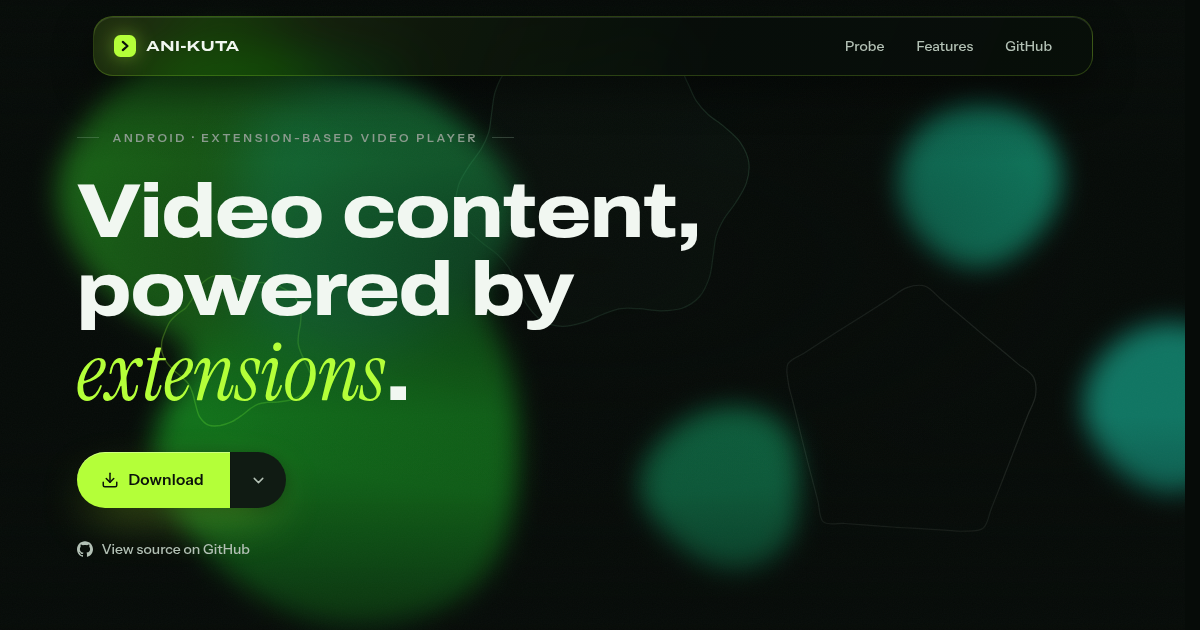
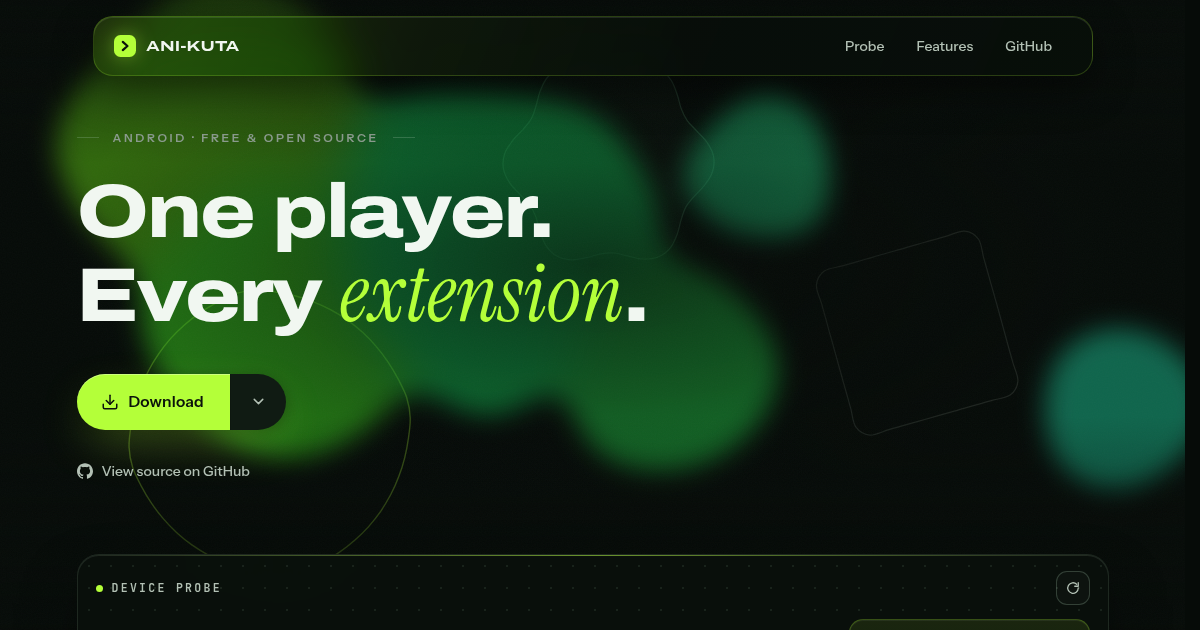
copy: v6 — headline 'One player. Every extension.', trust eyebrow, natural demo/modal copy, sentence-cased notices, cleaner meta

diff --git a/index.html b/index.html
@@ -4,11 +4,11 @@
   <meta charset="utf-8">
   <meta name="viewport" content="width=device-width, initial-scale=1">
   <title>ANI-KUTA — Download for Android</title>
-  <meta name="description" content="ANI-KUTA — an extension-based video content app for Android. Probe your device, pick arm64-v8a, armeabi-v7a or universal, and grab the APK.">
+  <meta name="description" content="ANI-KUTA — a free, open source extension-based video player for Android. Probe your device, pick arm64-v8a, armeabi-v7a or universal, and grab the APK.">
   <meta name="theme-color" content="#060B08">
   <link rel="icon" type="image/svg+xml" href="favicon.svg">
   <meta property="og:title" content="ANI-KUTA — Download for Android">
-  <meta property="og:description" content="ANI-KUTA — an extension-based video content app for Android. Probe your device, pick the right build, grab the APK.">
+  <meta property="og:description" content="ANI-KUTA — a free, open source extension-based video player for Android. Probe your device, pick the right build, grab the APK.">
   <meta property="og:url" content="https://confused-creature-180.github.io/ANI-KUTA/">
   <meta property="og:image" content="https://confused-creature-180.github.io/ANI-KUTA/og.png">
   <meta property="og:image:width" content="1200">
@@ -1270,9 +1270,9 @@
       <section class="ak-hero">
         <div class="ak-container">
           <div class="ak-hero-inner">
-            <p class="ak-eyebrow ak-rise" style="--d:0ms">Android · Extension-based video player</p>
+            <p class="ak-eyebrow ak-rise" style="--d:0ms">Android · Free &amp; open source</p>
 
-            <h1 class="ak-h1 ak-rise" style="--d:80ms">Video content, powered&nbsp;by <em class="ak-h1-em">extensions</em>.</h1>
+            <h1 class="ak-h1 ak-rise" style="--d:80ms">One player. Every <em class="ak-h1-em">extension</em>.</h1>
 
             <div class="ak-cta ak-rise" style="--d:240ms" id="download">
               <div class="ak-cta-wrap" id="ak-cta-wrap">
@@ -1318,7 +1318,7 @@
                           <span class="ak-row-tag">Fallback</span>
                         </button>
                       </div>
-                      <p class="ak-panel-note">Requires Android 8.0 or higher. No builds are published yet — rows open a notice, not a download.</p>
+                      <p class="ak-panel-note">Requires Android 8.0 or higher. No builds are published yet — picking a build shows a notice.</p>
                     </div>
                   </div>
                 </div>
@@ -1464,7 +1464,7 @@
                 </svg>
                 <span class="ak-footer-name">ANI-KUTA</span>
               </div>
-              <p class="ak-footer-tag">An extension-based video content app for Android. Requires Android 8.0 or higher.</p>
+              <p class="ak-footer-tag">A free, open source video player for Android, built around extensions. Requires Android 8.0 or higher.</p>
             </div>
             <nav class="ak-footer-links" aria-label="Footer">
               <a href="#download">Download</a>
@@ -2156,7 +2156,7 @@
           return {
             eyebrow: "BUILD",
             title: pick,
-            body: "This demo would download the " + pick + " APK. No builds are published yet — ANI-KUTA is in demo preview.",
+            body: "No builds are published yet — this is a demo preview. The " + pick + " APK will download here once a release ships.",
             action: null
           };
         }
@@ -2169,7 +2169,7 @@
             return {
               eyebrow: "BUILD",
               title: info.result,
-              body: "This demo would download the " + info.result + " APK. No builds are published yet — ANI-KUTA is in demo preview.",
+              body: "No builds are published yet — this is a demo preview. The " + info.result + " APK will download here once a release ships.",
               action: null
             };
           case "x86_64":
@@ -2177,20 +2177,20 @@
             return {
               eyebrow: "BUILD",
               title: "universal",
-              body: "Detected an x86 Android device. No dedicated x86 build is offered — use universal where supported.",
+              body: "Detected an x86 Android device. There's no dedicated x86 build yet — universal covers it.",
               action: null
             };
           case "ios-unsupported":
             return {
               eyebrow: "NOTICE",
-              title: "not available",
+              title: "Android only",
               body: "ANI-KUTA is an Android app. There is no iOS build.",
               action: null
             };
           case "desktop-notice":
             return {
               eyebrow: "NOTICE",
-              title: "android only",
+              title: "Android only",
               body: "This page detects Android devices. Open it on your Android phone to pick a build.",
               action: null
             };
@@ -2199,14 +2199,14 @@
               return {
                 eyebrow: "BUILD",
                 title: "universal",
-                body: "We couldn't identify your CPU — universal runs on any Android device. No builds are published yet (demo preview).",
+                body: "We couldn't identify your CPU — universal runs on any Android device. No builds are published yet. This is a demo preview.",
                 action: null
               };
             }
             return {
               eyebrow: "BUILD",
               title: info.result,
-              body: "This demo would download the " + info.result + " APK. No builds are published yet — ANI-KUTA is in demo preview.",
+              body: "No builds are published yet — this is a demo preview. The " + info.result + " APK will download here once a release ships.",
               action: null
             };
         }
